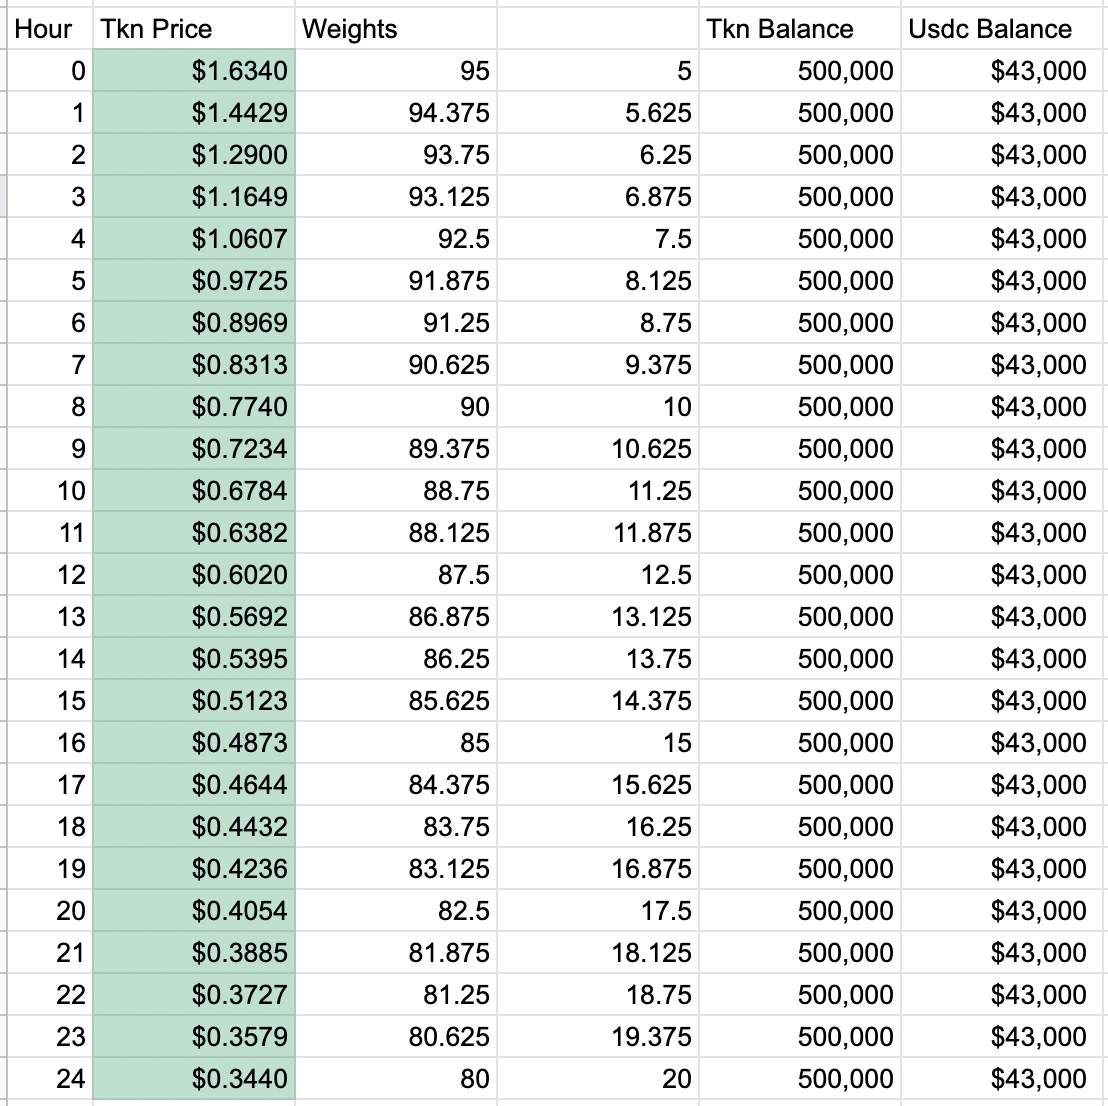
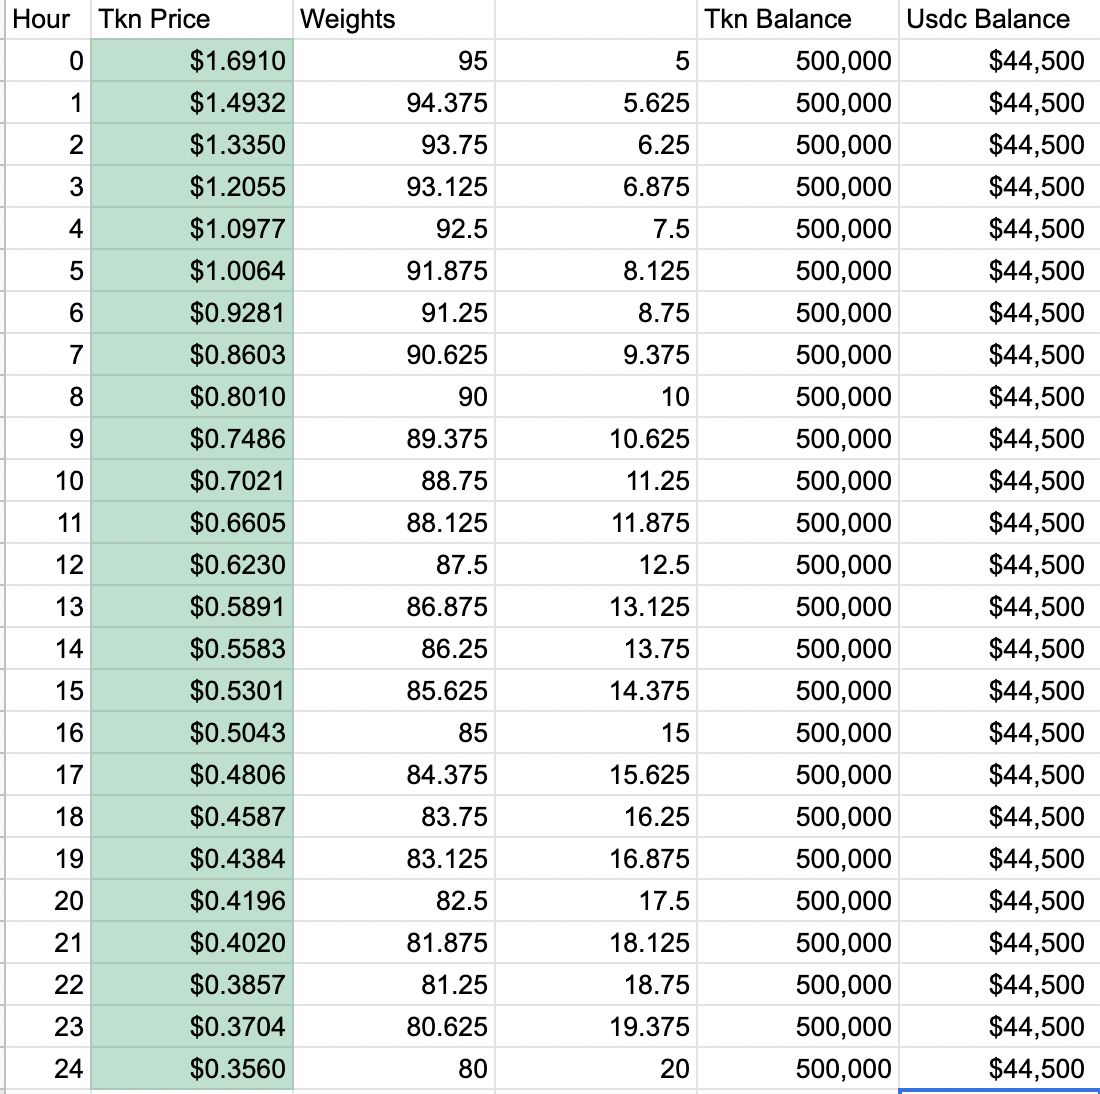
Updates for tokenomics

Changed region(s): [[0.0, 0.0, 1.0, 1.0]]

diff --git a/docs/embr/tokenomics.md b/docs/embr/tokenomics.md
@@ -5,7 +5,7 @@ The EMBR token is the goveranance token for the Embr Finance protocol. EMBR liqu
 
 <center>
 
-![Liquidity Bootstrapping Pool](/images/EmbrPie.png)
+![Liquidity Bootstrapping Pool](/images/EmbrPie3.png)
 
 </center>
 
@@ -18,23 +18,58 @@ The initial mint will be 22% of the maximium supply and will be broken down as f
 | Allocation        | % of Supply                          |  Amount Of Tokens |
 | ----------------- | ------------------------------------ | ----------------- |
 | Liquidity Bootstrapping Pool |  2.0%  | 500,000 |
-| Vested Team Funds       | 15% | 3,750,000 |
-| Strategic Partnerships   | 5%    | 1,250,000
+| Vested Team Funds       | 11% | 2,750,000 |
+| Funding Rounds          | 4%  | 1,000,000 |
+| Strategic Partnerships   | 4%    | 1,000,000 |
+| Launchpad Event         | 1%  | 250,000 |
 
 </center>
 
 Note: Of the 22% minted, only 2.65% will be in circulation upon launch, all other tokens will follow the vesting schedules described below
 
+# NFT Drop
+
+The private and public rounds will be distrubted using a NFT Drop. EMBR will be loaded onto the NFT and the owner will be able to directly redeem their EMBR from the nft contract form the [Avaware dapp](https://avaware.network/). 
+
+EMBR will become redemable 30 days after the initial LPB pool launch. 
+
+* NFT can be used to stake on Avaware & as a collectible!
+* NFT can be bought and sold on Avaware NFT market for AVAX, AVE, or AUSD.
+
+# Private Round  
+
+750k EMBR allocated for private sales. 
+
+Proceeds will be used to fund the Liquidity bootstraping pool and will be transferred from the LBP into an 80/20 EMBR/AUSD weighted pool following the conclusion of the LBP. 
+
+* 1 Private Round NFT @ 5000 AUSD ea. for 33500 EMBR
+* 22 Private Round NFT --available-- (total)
+
+# Public Round
+
+250k Tokens For AvalancheFriends Ticket Redeem
+
+* 250 Public Round NFTs @ 500 AUSD ea. for 1000 EMBR (0.50c) 
+* 1,000 EMBR will be easily claimable from within [Avaware.Network](https://avaware.network/) NFT Wallet
+
+# Avaware Launchpad Event 
+
+250k EMBR allocated for Avaware launchpad event. 
+
+* Users will stake AVE/EMBR EPT and get rewarded in EMBR
+* Event will start Monday Dec 20th 2021.
+* Event will last 30 days.
+
 # Liquidity Bootstrapping Pool (LPB)
 
-The Liquidity Bootstrapping Pool will use the allocated 2% of the Total Max Supply of EMBR (500,000 EMBR) and $43,000 worth of USDC.
+The Liquidity Bootstrapping Pool will use the allocated 2% of the Total Max Supply of EMBR (500,000 EMBR) and $44,500 USD worth of AUSD.
 
 * 500k EMR tokens will be distributed using a Liquidity Bootstrapping Pool (LBP). The exact date and time will be announced.
 * The LBP will run for 24 hours and is open to anyone.
 * The LBP is not like a regular weighted pool. The price will start very high to disincentivize bots, front-running and speculation. Over time, the price will automatically decrease by design.
-* Below is a graph that shows the EMBR/USDC pool weight starting at 95/5 (with a high EMBR price) and declining to 80/20 (lower EMBR price) over 24 hours.
-* At the end of the 24 hour period, the funds will be transferred from the LBP into an 80/20 EMBR/USDC weighted pool.
-* The LP tokens received by the development team for making the initial pool will deposited into the EMBR/USDC.
+* Below is a graph that shows the EMBR/AUSD pool weight starting at 95/5 (with a high EMBR price) and declining to 80/20 (lower EMBR price) over 24 hours.
+* At the end of the 24 hour period, the funds will be transferred from the LBP into an 80/20 EMBR/AUSD weighted pool.
+* The LP tokens received by the development team for making the initial pool will deposited into the EMBR/AUSD.
 * **NOTE**: the graph below assumes no buy/sell orders, the price will very likely fluctuate at variance with the below model as we expect buying pressure to occur. The models below are only an illustration of the basic operation of the LBP function.
 
 ![Liquidity Bootstrapping Pool](/images/lbp-spreadsheet.png)
@@ -43,14 +78,18 @@ The Liquidity Bootstrapping Pool will use the allocated 2% of the Total Max Supp
 
 The team funds will be vested linearly and will be  distributed according to the following schedule:
 
-* 10 % Initial Allowance  ( 375,000 )
-* 90 % Vested Lineraly over 4 years ( 3,375,000 )
+* 27 % Initial Allowance  ( 750,000 )
+* 73 % Vested Lineraly over 4 years ( 2,000,000 )
 
-None of the initially unlocked allowance will be used in the EMBR/USDC farm. Both the team wallet and vesting contract will be made available in the documentation
+Both the team wallet and vesting contract will be made available in the documentation
 
 # Strategic Partnerships
 
-This fund will be deployed to attract and incentivize strategic partners that will help Embr grow and thrive. 5% of the total maximum supply will be reserved to promote ecosystem partnerships. 
+This fund will be deployed to attract and incentivize strategic partners that will help Embr grow and thrive. 4% of the total maximum supply will be reserved to promote ecosystem partnerships. 
+
+| Allocation        | % of Supply                          |  Amount Of Tokens |
+| ----------------- | ------------------------------------ |  ---------------- |
+| Vested Partnerships |  4.0%  | 1m |
 
 Embr finance will never use any of the funds in the Strategic Partnerships Fund to pay or reward any of its team members or employees. This fund is exclusively for partners, integrators and other teams in general that contribute to the Embr ecosystem. Any use of these funds will be presented to the community prior to execution.
 
